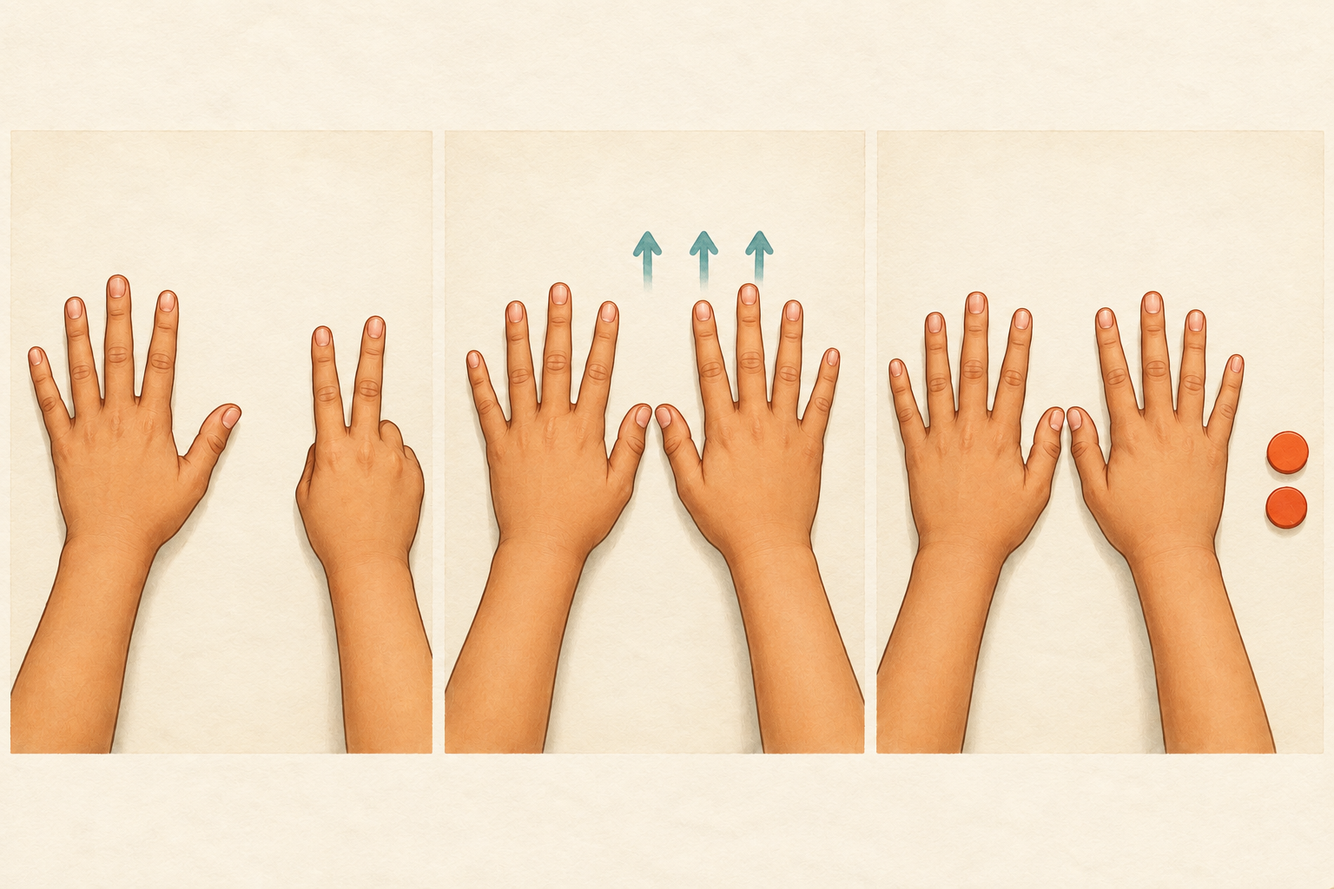
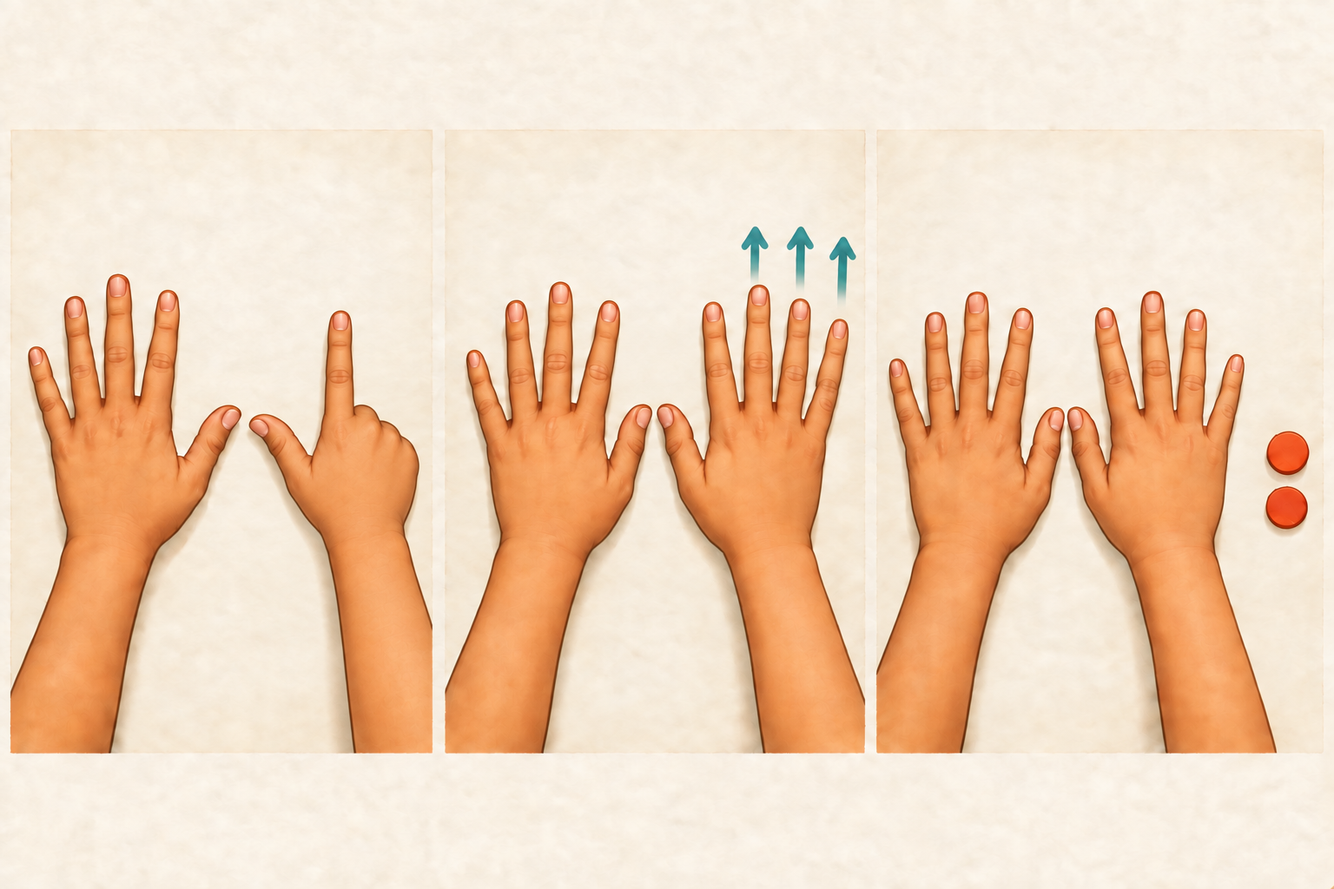
Refine Chapter 1 visual details

diff --git a/book/manuscript/01_7_plus_5.md b/book/manuscript/01_7_plus_5.md
@@ -21,7 +21,6 @@ The answer is 12. But what happened on the way there: words, a picture, movement
 **Math:** `1+1+1+1+1+1+1+1+1+1+1+1 = 12`
 
 ### First-person account
-**Constructed solver voice — not a participant quotation**
 > A solver might describe the experience this way: “I make a group of seven and a group of five. I touch each object once and say the number words in order. The last word is twelve. The objects stay separate until the final count names the whole.”
 
 ### Steps
@@ -48,7 +47,6 @@ R01-003 and R01-014 support varied counting, decomposition, and derived-fact str
 **Math:** `7 → 8 → 9 → 10 → 11 → 12`
 
 ### First-person account
-**Constructed solver voice — not a participant quotation**
 > A solver might describe the experience this way: “Seven is already in my head. I make five little beats and say eight, nine, ten, eleven, twelve. I stop after five more numbers. The starting seven is not counted again; only the five increments matter.”
 
 ### Steps
@@ -58,7 +56,7 @@ R01-003 and R01-014 support varied counting, decomposition, and derived-fact str
 4. Stop after exactly 5 increments.
 
 ### Illustration brief
-Vector number line 7–12 with five equal jumps and five tap marks. Verify there are five jumps, not six.
+Vector number line 7–12 with five equal jumps. End each arc before its separate arrowhead so the stroke never shows through the head. Pair each spoken landing `8–12` with a preceding tap dot, including a dot before 8. Verify there are five jumps, not six.
 
 ### Mathematical note
 Five unit steps forward from 7 reach 12.
@@ -75,7 +73,6 @@ R01-003 and R01-013 concern counting and strategy use; no frequency claim is mad
 **Math:** `5 + 7 = 7 + 5 = 12`
 
 ### First-person account
-**Constructed solver voice — not a participant quotation**
 > A solver might describe the experience this way: “I start with five and count seven more: six, seven, eight, nine, ten, eleven, twelve. I know switching the addends leaves the total unchanged. The order changes the route, but not the total I report.”
 
 ### Steps
@@ -85,7 +82,7 @@ R01-003 and R01-013 concern counting and strategy use; no frequency claim is mad
 4. Apply commutativity to return to `7 + 5`.
 
 ### Illustration brief
-Show swapped addends and seven vector jumps from 5 to 12. Verify all seven intervals are one unit.
+Show the same two addends visibly trading places before the equality, then seven vector jumps from 5 to 12. End each arc at the base of its separate arrowhead. Verify all seven intervals are one unit.
 
 ### Mathematical note
 Addition is commutative, so order does not change the sum.
@@ -102,17 +99,16 @@ R01-007, R01-008, and R01-014 discuss conceptual relations and derived facts; th
 **Math:** `7 + 5 = 7 + 3 + 2 = 10 + 2 = 12`
 
 ### First-person account
-**Constructed solver voice — not a participant quotation**
 > A solver might describe the experience this way: “I show seven with one hand and two fingers, and five on the other. Three of those five join the two to make ten. Two fingers remain, so I see twelve. My hands make the grouping visible while the arithmetic stays exact.”
 
 ### Steps
-1. Represent 7 as five fingers plus two.
+1. Represent 7 as five fingers plus a thumb-and-index gesture for two.
 2. Represent 5 with the other hand.
 3. Combine three fingers with the two to make 10.
 4. Keep 2 uncombined and read `10 + 2 = 12`.
 
 ### Illustration brief
-Use three consistently scaled top-down panels: seven raised fingers; ten raised fingers with exactly three motion cues; then ten raised fingers plus two residual counters. Label the counters as the part of the added five not used to make ten. Manual anatomy/digit review required; all text remains vector.
+Use three consistently scaled top-down panels. Panel 1 shows five on one hand plus thumb and index on the other; its middle, ring, and pinky are folded. Panel 2 opens those three folded fingers to make ten, with exactly three motion arrows positioned above those fingertips. Panel 3 shows ten raised fingers plus two residual counters. Label the counters as the part of the added five not used to make ten. Manual anatomy/digit review required; all text remains vector.
 
 ### Mathematical note
 The regrouping is `7 + (3 + 2) = (7 + 3) + 2`.
@@ -129,7 +125,6 @@ R02-F01, R02-F02, and R02-F05 support cautious discussion of finger use; they do
 **Math:** `7 + 5 = 7 + 3 + 2 = 10 + 2 = 12`
 
 ### First-person account
-**Constructed solver voice — not a participant quotation**
 > A solver might describe the experience this way: “Seven needs three to become ten. I split the five into three and two, fill ten, and add the two left over. The empty spaces in the ten-frame make the regrouping easy to track.”
 
 ### Steps
@@ -139,7 +134,7 @@ R02-F01, R02-F02, and R02-F05 support cautious discussion of finger use; they do
 4. State 12.
 
 ### Illustration brief
-Show seven blue tiles, five orange tiles, exactly three moved into a ten-frame, and two left outside. Vector frame and equations must match counts.
+Show seven blue tiles, five orange tiles, exactly three moved into a ten-frame, and two left outside. Place the source label above the five dotted source boxes, leaving their trajectory lane unobstructed. Vector frame and equations must match counts.
 
 ### Mathematical note
 Associativity and decomposition preserve equality.
@@ -156,7 +151,6 @@ R01-003, R01-007, and R01-014 support discussion of decomposition and derived fa
 **Math:** `7 + 5 = (5 + 2) + 5 = (5 + 5) + 2 = 12`
 
 ### First-person account
-**Constructed solver voice — not a participant quotation**
 > A solver might describe the experience this way: “Five plus five is ten. Seven is two more than five, so I attach those two to ten and get twelve. I use the familiar five as an anchor before adding the extra two.”
 
 ### Steps
@@ -183,7 +177,6 @@ R01-007 and R01-014 concern conceptual and derived-fact strategies; “known qui
 **Math:** `7 + 5 = 7 + 7 − 2 = 14 − 2 = 12`
 
 ### First-person account
-**Constructed solver voice — not a participant quotation**
 > A solver might describe the experience this way: “Double seven is fourteen. Five is two less than seven, so I adjust fourteen down by two. That leaves twelve. The adjustment is a correction to a known double, not a new count.”
 
 ### Steps
@@ -210,7 +203,6 @@ R01-014 discusses derived facts and adjustment relations; documented sign errors
 **Math:** `7 + 5 = 12`
 
 ### First-person account
-**Constructed solver voice — not a participant quotation**
 > A solver might describe the experience this way: “The pair 7 and 5 brings up 12 immediately. I do not notice dots or a spoken count. I can check it afterward if I want. The answer feels quick, even though I can explain a check afterward.”
 
 ### Steps
@@ -237,7 +229,6 @@ R01-003 and R01-013 examine retrieval and other reported strategies; R02-I01 cau
 **Math:** `7 + 5 = (5 + 5) + 2 = 12`
 
 ### First-person account
-**Constructed solver voice — not a participant quotation**
 > A solver might describe the experience this way: “I do not see twelve separate things. I see two five-patterns and two extras. The chunks tell me ten and two. The pattern is a compact picture of the same twelve-unit total.”
 
 ### Steps
@@ -264,7 +255,6 @@ Editorially constructed representation; R01-003 and R01-014 support decompositio
 **Math:** `7 + 5 = 12`
 
 ### First-person account
-**Constructed solver voice — not a participant quotation**
 > A solver might describe the experience this way: “Seven is my starting place. I make five equal hops right and land on twelve. The landing place is the sum. Each jump has the same length, so the endpoint records the sum.”
 
 ### Steps
@@ -291,7 +281,6 @@ R01-010 concerns jump/compensation choices; this account does not imply a univer
 **Math:** `7 + 5 = 10 + 2 = 12`
 
 ### First-person account
-**Constructed solver voice — not a participant quotation**
 > A solver might describe the experience this way: “I place seven blocks in a ten-frame and bring five more. Three fill the empty spaces; two sit beside the full frame. The full frame acts as ten, and the loose blocks make two more.”
 
 ### Steps
@@ -318,7 +307,6 @@ R01-003 and R01-007 support separating conceptual transformations from procedure
 **Math:** `7 + 5 = 12`
 
 ### First-person account
-**Constructed solver voice — not a participant quotation**
 > A solver might describe the experience this way: “I keep seven as the beat I am on. I tap five times and say eight, nine, ten, eleven, twelve. The rhythm keeps my place. The beats are a tracking aid, not a claim about how anyone must think.”
 
 ### Steps
@@ -345,7 +333,6 @@ R02-I01 and R02-I06 support cautious discussion of inner speech/phonological res
 **Math:** `7 + 5 = 7 + 3 + 2 = 12`
 
 ### First-person account
-**Constructed solver voice — not a participant quotation**
 > A solver might describe the experience this way: “A little written line appears: 7 + 5. I split 5 into 3 and 2, write 10 after the first part, and add 2 to reach 12. The marks are imagined symbols, while the regrouping supplies the reason.”
 
 ### Steps
@@ -355,7 +342,7 @@ R02-I01 and R02-I06 support cautious discussion of inner speech/phonological res
 4. Compute `10 + 2 = 12`.
 
 ### Illustration brief
-Vector mental page with four exact equations and a subtle pen silhouette. No raster equation text.
+Vector mental page with four exact equations and a small but recognizable fountain pen. End each vertical connector before its arrowhead so no stroke runs beneath the head. No raster equation text.
 
 ### Mathematical note
 This is a symbolic presentation of the make-ten transformation.
@@ -372,7 +359,6 @@ R02-I04, R02-I05, and R02-I06 distinguish phonological/visual working-memory res
 **Math:** `7 + 5 = 10 + 2 = 12`
 
 ### First-person account
-**Constructed solver voice — not a participant quotation**
 > A solver might describe the experience this way: “I notice a relation, not a scene: seven and five together are two more than ten. The relation points to twelve. I do not hear a sentence or see objects. The relation is mathematical; the quiet format is only one possible experience.”
 
 ### Steps

diff --git a/art/prompts/ch01/ch01_m04_fingers-make-ten.md b/art/prompts/ch01/ch01_m04_fingers-make-ten.md
@@ -27,3 +27,31 @@ Refine only the visual style and panel consistency of the supplied three-panel h
 ## 2026-09-25 selection note
 
 The refined image was accepted after full-resolution inspection. It preserves the exact 7 → 10 → 10 + 2 sequence, five digits per visible hand, exactly three teal arrows, exactly two orange counters, consistent scale, and a text-free raster. The composite now explains in vector text that the two counters are the part of the added five not used to make ten.
+
+## Thumb-and-index sequence correction — 2026-09-26
+
+Use case: `precise-object-edit`.
+
+Correct the finger sequence and motion-arrow placement while preserving the existing editorial ink-and-gouache style, warm paper background, panel layout, top-down viewpoint, skin tone, lighting, hand scale, and wrist positions. Panel 1: keep the left hand fully open with exactly five extended digits. Change the right hand so it clearly represents exactly two using only the thumb and index finger extended; the middle, ring, and pinky fingers are visibly folded into the palm. Panel 2: show the same two hands fully open, exactly ten extended digits total. Place exactly three teal upward arrows directly above the middle, ring, and pinky fingers of the hand that previously showed two. Each arrow must sit clear of and above its corresponding fingertip, pointing upward; arrows must not overlap any finger. Panel 3: preserve two fully open hands with exactly ten extended digits plus exactly two orange counters at far right. Preserve exactly three equal panels and all arithmetic states `7 → 10 → 10 + 2`. Include no text, numerals, labels, logos, watermarks, or malformed anatomy.
+
+The first edit still produced an index-and-middle V gesture in panel 1, so a second targeted edit used this exact prompt:
+
+> Change ONLY the right-hand gesture in PANEL 1 and preserve everything else exactly. The panel-1 right hand must show the ASL-style number 2 made with THUMB AND INDEX: extend the thumb sideways to the viewer's right and extend the index finger straight upward. Fold the middle, ring, and pinky fingers tightly into the palm. There must be exactly two extended digits total on that hand, specifically thumb + index—not index + middle and not a V/peace sign. Preserve panel 1's fully open left hand. Preserve panels 2 and 3 pixel-for-pixel if possible, including exactly three teal arrows clearly above the fingertips in panel 2 and exactly two orange counters in panel 3. Preserve three panels, all hand anatomy, warm paper, style, scale, top-down view, and no text. No extra, missing, fused, duplicated, or malformed digits.
+
+## 2026-09-26 intermediate note
+
+The thumb-and-index edit was initially accepted, then rejected on closer review: the panel-1 hand on the viewer's right was a second left hand, and the panel-2 arrows marked index, middle, and ring rather than middle, ring, and pinky.
+
+Rejected intermediate: `art/rejected/ch01/ch01_m04_fingers-make-ten_v2-index-middle-instead-of-thumb-index.png`.
+
+## Laterality and arrow correction — 2026-09-26
+
+Use case: `precise-object-edit`.
+
+> Correct ONLY the laterality and finger-state continuity in panels 1 and 2. Preserve the three-panel layout, style, warm paper, camera, lighting, scale, wrists, panel 3, and all quantities. PANEL 1: the hand on the viewer's LEFT is an anatomically LEFT hand, fully open with five digits. The hand on the viewer's RIGHT must be an anatomically RIGHT hand—not a second left hand. On this right-side RIGHT hand, extend exactly the THUMB and INDEX only: its thumb points LEFT/inward toward the other hand, its index points upward immediately to the viewer-right of the thumb, and its middle, ring, and pinky are clearly folded into the palm. Exactly two extended digits on this hand. PANEL 2: preserve one left hand on viewer-left and one right hand on viewer-right, both fully open, exactly ten digits. Move the exactly three teal arrows so they sit directly above the RIGHT-SIDE RIGHT HAND'S MIDDLE, RING, and PINKY fingertips—the three outer fingers from the center finger through the viewer-right edge. Do NOT put an arrow over its index finger or thumb. Each arrow must be separate, above and clear of its corresponding fingertip, without overlap. PANEL 3: preserve exactly as shown: one anatomical left hand plus one anatomical right hand, ten digits total, exactly two orange counters. Constraints: exactly three teal arrows total; no extra/missing/fused/duplicated/malformed digits; no text, numerals, logos, or watermark. The sequence must visibly read: right hand thumb+index → extend middle+ring+pinky → open five.
+
+## Final 2026-09-26 selection note
+
+The accepted production raster now shows an anatomical left/right pair in every panel. Panel 1 uses the right hand's inward thumb plus upright index for two. Panel 2 places exactly three arrows directly above that right hand's middle, ring, and pinky. Panel 3 retains ten fingers and exactly two counters. Full-resolution inspection found five plausible digits on every hand, no raster text, and no arrow/fingertip overlap.
+
+Rejected intermediate: `art/rejected/ch01/ch01_m04_fingers-make-ten_v3-duplicate-left-hand-wrong-arrows.png`.

diff --git a/art/prompts/ch01/README.md b/art/prompts/ch01/README.md
@@ -22,20 +22,21 @@ Do not add decorative dots, blocks, ticks, taps, or other countable marks. Quant
 
 - File: `art/vectors/ch01/ch01_m02_count-on-from-seven.svg`
 - Mark 7 as the held starting total, then draw exactly five equal `+1` jumps with landings `8, 9, 10, 11, 12`.
-- Add exactly five equal tap discs aligned one-to-one with the jumps; label the shared relation `five landings · five taps`.
+- End each arc at the base of its separate arrowhead so the stroke never runs beneath the head.
+- Add exactly five equal tap discs aligned one-to-one with the jumps and put each disc immediately before its spoken number, including the first disc before `8`; label the shared relation `five landings · five tap-and-say beats`.
 - Do not depict a jump onto 7.
 
 ### M03 — Count on from five
 
 - File: `art/vectors/ch01/ch01_m03_count-on-from-five.svg`
-- Show the equality `7 + 5 = 5 + 7`, then mark 5 as the starting total.
+- Show the equality `7 + 5 = 5 + 7` with curved matching lines that visibly connect each repeated addend across its swapped position, then mark 5 as the starting total.
 - Draw exactly seven equal `+1` jumps with landings `6` through `12`.
-- Keep the commutative equality as a compact premise above the enlarged route; attach `held start` and `seventh landing` directly to 5 and 12.
+- Keep the commutative equality as a compact premise above the enlarged route; attach `held start` and `seventh landing` directly to 5 and 12. End every arc at the base of its separate arrowhead.
 
 ### M04 — Fingers as counters (raster/vector composite)
 
 - Composite file: `art/composites/ch01/ch01_m04_fingers-make-ten.svg`; organic base: `art/raster/ch01/ch01_m04_fingers-make-ten_raster.png`.
-- Three sequential panels use the same pair of anatomically plausible hands: 7 raised fingers; then 10 raised fingers with exactly 3 motion arrows; then 10 raised fingers plus exactly 2 separate counters.
+- Three sequential panels use the same pair of anatomically plausible hands: panel 1 shows five on one hand plus thumb and index on the other; panel 2 opens that hand's middle, ring, and pinky to make 10, with exactly 3 motion arrows directly above those fingertips; panel 3 shows 10 raised fingers plus exactly 2 separate counters.
 - Vector overlay labels preserve `7`, `+3 → 10`, and `10 + 2 = 12`; the raster contains no text. Manual anatomy/digit review and the full generation record are in `art/raster/ch01/ch01_m04_fingers-make-ten_raster.md` and `art/prompts/ch01/ch01_m04_fingers-make-ten.md`.
 
 ### M05 — Make ten
@@ -43,6 +44,7 @@ Do not add decorative dots, blocks, ticks, taps, or other countable marks. Quant
 - File: `art/vectors/ch01/ch01_m05_make-ten.svg`
 - Draw one exact 2×5 ten-frame. Fill 7 cells with blue solid counters, the 3 remaining cells with orange hatched counters, and place 2 same-size orange hatched residual counters outside.
 - Show five faint source tiles and trace three to the empty frame cells and two to the residual positions; label the full frame `10` and the residual group `2`.
+- Place `the added 5` above the five dotted source tiles so no label crosses their trajectory lines.
 - Required chain: `7 + 5 = 7 + 3 + 2 = 10 + 2 = 12`.
 
 ### M06 — Use five plus five
@@ -99,7 +101,8 @@ Do not add decorative dots, blocks, ticks, taps, or other countable marks. Quant
 - File: `art/vectors/ch01/ch01_m13_tiny-mental-algorithm.svg`
 - Use a vector-only imagined page with four selectable full expressions: `7 + 5`, `= 7 + (3 + 2)`, `= (7 + 3) + 2`, `= 10 + 2 = 12`.
 - Connect the reading order vertically with short action labels `split 5`, `regroup`, and `make 10`; no term may disappear between lines.
-- A non-countable pen-nib silhouette may cue inner writing; it must not obscure text.
+- End each connector before its arrowhead so the stroke does not show through the head.
+- A small, recognizable fountain pen with barrel, cap, clip, metal section, and nib may cue inner writing; it must not obscure text.
 
 ### M14 — Recognize a relation without a picture
 

diff --git a/art/vectors/ch01/METHOD_ART_LEDGER.md b/art/vectors/ch01/METHOD_ART_LEDGER.md
@@ -11,10 +11,10 @@
 | Method | Asset | Visual mapping and exact check | Status |
 | --- | --- | --- | --- |
 | 01 Count every object | `ch01_m01_count-every-object.svg` | 7 solid blue + 5 hatched orange counters; one serpentine center-to-center trail runs 1–12 and finishes on 12 | complete |
-| 02 Count on from seven | `ch01_m02_count-on-from-seven.svg` | held 7; exactly five unit jumps, landings, and equal tap discs, 8–12 | complete |
-| 03 Count on from five | `ch01_m03_count-on-from-five.svg` | commutative swap; held 5; exactly seven unit jumps, 6–12 | complete |
-| 04 Fingers as counters | `art/composites/ch01/ch01_m04_fingers-make-ten.svg` + `art/raster/ch01/ch01_m04_fingers-make-ten_raster.png` | sequential hand panels: 7 raised; 10 raised with exactly 3 arrows; 10 raised + 2 counters; vector labels preserve `7+3+2=10+2=12`; five digits per hand manually checked | complete composite |
-| 05 Make ten | `ch01_m05_make-ten.svg` | five ghosted source units trace to 3 hatched frame fills + 2 hatched residuals; `10+2` | complete |
+| 02 Count on from seven | `ch01_m02_count-on-from-seven.svg` | held 7; exactly five unit jumps with clean line/head joins; each tap dot precedes its spoken landing, 8–12 | complete |
+| 03 Count on from five | `ch01_m03_count-on-from-five.svg` | curved matching lines visualize the commutative swap; held 5; exactly seven unit jumps with clean line/head joins, 6–12 | complete |
+| 04 Fingers as counters | `art/composites/ch01/ch01_m04_fingers-make-ten.svg` + `art/raster/ch01/ch01_m04_fingers-make-ten_raster.png` | panel 1 uses five plus thumb-and-index; panel 2 extends middle/ring/pinky beneath exactly 3 arrows; panel 3 shows 10 + 2 counters; five digits per hand manually checked | complete composite |
+| 05 Make ten | `ch01_m05_make-ten.svg` | source label sits above five ghosted units; unobstructed traces lead to 3 hatched frame fills + 2 hatched residuals; `10+2` | complete |
 | 06 Use five plus five | `ch01_m06_five-plus-five.svg` | blue 7-card remains `5+2`; untouched 5 is hatched; brace pairs the two five-patterns as 10 | complete |
 | 07 Double seven, subtract two | `ch01_m07_double-seven-subtract-two.svg` | 14 filled dots in two patterned groups of 7; exactly 2 remain visible beneath X marks; 12 uncancelled | complete |
 | 08 Retrieve the fact | `ch01_m08_retrieve-the-fact.svg` | quiet symbolic `7+5=12`; detached dashed counting check; no arrow or countable objects | complete |
@@ -22,7 +22,7 @@
 | 10 Hop on a number line | `ch01_m10_number-line-hops.svg` | focused ticks 7–12; five spacious, equal, separately drawn `+1` arcs | complete |
 | 11 Build with ten-frame blocks | `ch01_m11_ten-frame-blocks.svg` | identical 52×52 blocks in before/after stages; 3 trajectories enter the frame and 2 remain loose | complete |
 | 12 Say a counting rhythm | `ch01_m12_counting-rhythm.svg` | exactly five equal beat discs mapped one-to-one to 8–12; no magnitude, volume, or tempo encoding | complete |
-| 13 Write a tiny mental algorithm | `ch01_m13_tiny-mental-algorithm.svg` | four exact selectable full expressions preserve every term through split, regroup, and make-ten | complete |
+| 13 Write a tiny mental algorithm | `ch01_m13_tiny-mental-algorithm.svg` | four exact selectable full expressions preserve every term; connectors have clean line/head joins; a detailed fountain pen remains secondary | complete |
 | 14 Recognize a relation | `ch01_m14_relation-without-picture.svg` | typographic equality `7+5=10+2=12`; no nodes, arrows, or sensory/object imagery | complete |
 
 ## Preserved opening anchor

diff --git a/qa/reports/ch01_picture_improvement_audit.md b/qa/reports/ch01_picture_improvement_audit.md
@@ -317,3 +317,22 @@ Current visual evidence is stored in `artifacts/ui/QA-IMAGE-FIXES-CH01/`.
 - Source artwork revised: **15 of 15 pictures**.
 - Implementation status: **all recorded recommendations resolved**.
 - New sources/citations: **none**; no empirical claim was added.
+
+## Follow-up resolution — 2026-09-26
+
+- Removed all 14 repeated `Constructed solver voice — not a participant quotation` lines from Chapter 1. Every account still begins `A solver might describe the experience this way`, so its editorial framing remains explicit without duplicated boilerplate.
+- Method 02: separated every arc stroke from its arrowhead and paired each tap dot before its spoken landing, including the first dot before 8.
+- Method 03: separated arc strokes from arrowheads and added curved matching lines that trace the same addends into switched positions across `7 + 5 = 5 + 7`.
+- Method 04: changed the two-finger state to the anatomical right hand's inward thumb plus index, preserved one left/right hand pair in every panel, then aligned exactly three arrows above that right hand's middle, ring, and pinky as they extend to make ten.
+- Method 05: moved `the added 5` above its dotted source boxes, leaving the trajectory lane clear.
+- Method 13: separated connector strokes from their arrowheads and replaced the abstract nib polygon with a recognizable small fountain pen.
+
+### Transferable notes for later chapters
+
+1. **Terminate connector strokes at the base of arrowheads.** Do not let a stroke continue beneath a filled head; inspect the join at final reading size, not only in source view.
+2. **Put tracking marks before the words they trigger.** In tap, beat, or count sequences, every spoken value—including the first—needs the same preceding cue and one-to-one alignment.
+3. **Visualize commutativity as conservation plus exchange.** Repeated addends should be visibly matched across their swapped positions; a bare equality can be mathematically correct yet visually under-explain the transformation.
+4. **Stage finger changes with a natural starting gesture.** Choose the exact folded/extended fingers first, then place motion cues directly above only the digits that change state.
+5. **Reserve clear lanes for labels and trajectories.** Put source labels above source objects when downward paths leave those objects; never make the reader look through text to follow motion.
+6. **Make object cues recognizable but subordinate.** Pens, tools, and other props need enough silhouette detail to read immediately, while remaining smaller and quieter than the mathematical content.
+7. **Avoid redundant constructed-account boilerplate.** Where an account already begins `A solver might describe the experience this way` and the book-level disclosure is present, do not repeat a separate quotation disclaimer on every method page.

diff --git a/art/raster/ch01/ch01_m04_fingers-make-ten_raster.md b/art/raster/ch01/ch01_m04_fingers-make-ten_raster.md
@@ -1,10 +1,10 @@
 # CH01 Method 04 raster provenance
 
 - Production asset: `ch01_m04_fingers-make-ten_raster.png`.
-- Generated: 2026-09-06 with the built-in OpenAI image-generation tool; anatomy corrected with a targeted built-in edit on 2026-09-08; editorial style and panel consistency refined with a constrained built-in edit on 2026-09-25.
+- Generated: 2026-09-06 with the built-in OpenAI image-generation tool; anatomy corrected with a targeted built-in edit on 2026-09-08; editorial style and panel consistency refined with a constrained built-in edit on 2026-09-25; thumb-and-index staging, left/right laterality, and exact arrow-to-finger alignment corrected through targeted built-in edits on 2026-09-26.
 - Intended use: organic base layer for `art/composites/ch01/ch01_m04_fingers-make-ten.svg`; all essential mathematical labels remain vector text in the composite.
-- Content check: panel 1 shows five raised fingers plus two raised fingers; panel 2 shows ten raised fingers and exactly three arrowheads; panel 3 shows ten raised fingers plus exactly two orange counters.
-- Anatomy check: the final raster was inspected at full resolution after the 2026-09-25 refinement. Each visible hand has exactly five digits; no extra, missing, duplicated, malformed, or fused fingers were found. Raised/folded states, wrists, left/right orientation, skin tone, scale, and top-down viewpoint are plausible and consistent.
+- Content check: panel 1 shows one fully open hand plus a second hand with only thumb and index extended; panel 2 opens that second hand and places exactly three arrows above its newly extended middle, ring, and pinky fingertips; panel 3 shows ten raised fingers plus exactly two orange counters.
+- Anatomy check: the final raster was inspected at full resolution after the 2026-09-26 laterality correction. Every panel contains one anatomical left hand and one anatomical right hand. Each visible hand has exactly five digits; no extra, missing, duplicated, malformed, or fused fingers were found. Raised/folded states, wrists, skin tone, scale, and top-down viewpoint are plausible and consistent.
 - Text check: the raster contains no words, numerals, equations, logos, or watermarks.
 - Source prompt and correction prompt: `art/prompts/ch01/ch01_m04_fingers-make-ten.md`.
 - Rejected predecessor: `art/rejected/ch01/ch01_m04_fingers-make-ten_v1-too-many-arrows.png`.

diff --git a/book/manuscript/00_frontmatter.md b/book/manuscript/00_frontmatter.md
@@ -41,7 +41,7 @@ You may find that a method that feels natural for addition feels awkward for fra
 
 ### A note on constructed solver voices
 
-Unless a page explicitly identifies a published interview or research report, every first-person voice in this book is a **constructed representative account**. It is written to make a mathematically plausible route vivid. Every method repeats the label **Constructed solver voice — not a participant quotation**, so this disclosure remains visible even when a strategy page is read apart from the introduction:
+Unless a page explicitly identifies a published interview or research report, every first-person voice in this book is a **constructed representative account**. It is written to make a mathematically plausible route vivid. Method accounts are introduced as something “a solver might describe,” preserving that framing even when a strategy page is read apart from the introduction:
 
 > A solver might describe the experience this way: “I start at seven and count five more: eight, nine, ten, eleven, twelve.”
 

diff --git a/artifacts/ui/QA-IMAGE-FIXES-CH01-R2/README.md b/artifacts/ui/QA-IMAGE-FIXES-CH01-R2/README.md
@@ -1,0 +1,11 @@
+# QA-IMAGE-FIXES-CH01-R2 visual evidence
+
+Current 1200×800 source renders captured after the 2026-09-26 Chapter 1 follow-up:
+
+- `ch01_m02_count-on-from-seven.png` — five clean arc/head joins; five tap dots each precede 8–12.
+- `ch01_m03_count-on-from-five.png` — matching curves visualize swapped addends; seven clean arc/head joins.
+- `ch01_m04_fingers-make-ten.png` — anatomical left/right pair; right-hand thumb+index becomes five; arrows align above middle/ring/pinky.
+- `ch01_m05_make-ten.png` — source label sits above dotted boxes without crossing trajectories.
+- `ch01_m13_tiny-mental-algorithm.png` — clean connector/head joins and a recognizable subordinate fountain pen.
+
+All five renders were visually inspected at full 1200×800 resolution. Method 04's underlying 1536×1024 raster was also inspected at full resolution.

diff --git a/art/rejected/ch01/ch01_m04_fingers-make-ten_v2-index-middle-instead-of-thumb-index.md b/art/rejected/ch01/ch01_m04_fingers-make-ten_v2-index-middle-instead-of-thumb-index.md
@@ -1,0 +1,5 @@
+# Rejected CH01 Method 04 intermediate — 2026-09-26
+
+- File: `ch01_m04_fingers-make-ten_v2-index-middle-instead-of-thumb-index.png`.
+- Rejection reason: panel 1 still represented two with the index and middle fingers in a V gesture. The requested sequence required thumb and index extended so the middle, ring, and pinky could be the three digits visibly added in panel 2.
+- Preserved value: the intermediate correctly moved all three arrows above the panel-2 fingertips and retained exact counts, but its starting gesture did not support the intended state change.

diff --git a/art/rejected/ch01/ch01_m04_fingers-make-ten_v3-duplicate-left-hand-wrong-arrows.md b/art/rejected/ch01/ch01_m04_fingers-make-ten_v3-duplicate-left-hand-wrong-arrows.md
@@ -1,0 +1,5 @@
+# Rejected CH01 Method 04 intermediate — 2026-09-26
+
+- File: `ch01_m04_fingers-make-ten_v3-duplicate-left-hand-wrong-arrows.png`.
+- Rejection reason: panel 1 used a second anatomical left hand on the viewer's right. In panel 2, the arrows aligned with index, middle, and ring instead of the three fingers that were meant to change state: middle, ring, and pinky.
+- Required correction: preserve an anatomical left/right pair across all panels and place the three motion cues only above the three newly extended fingers.
